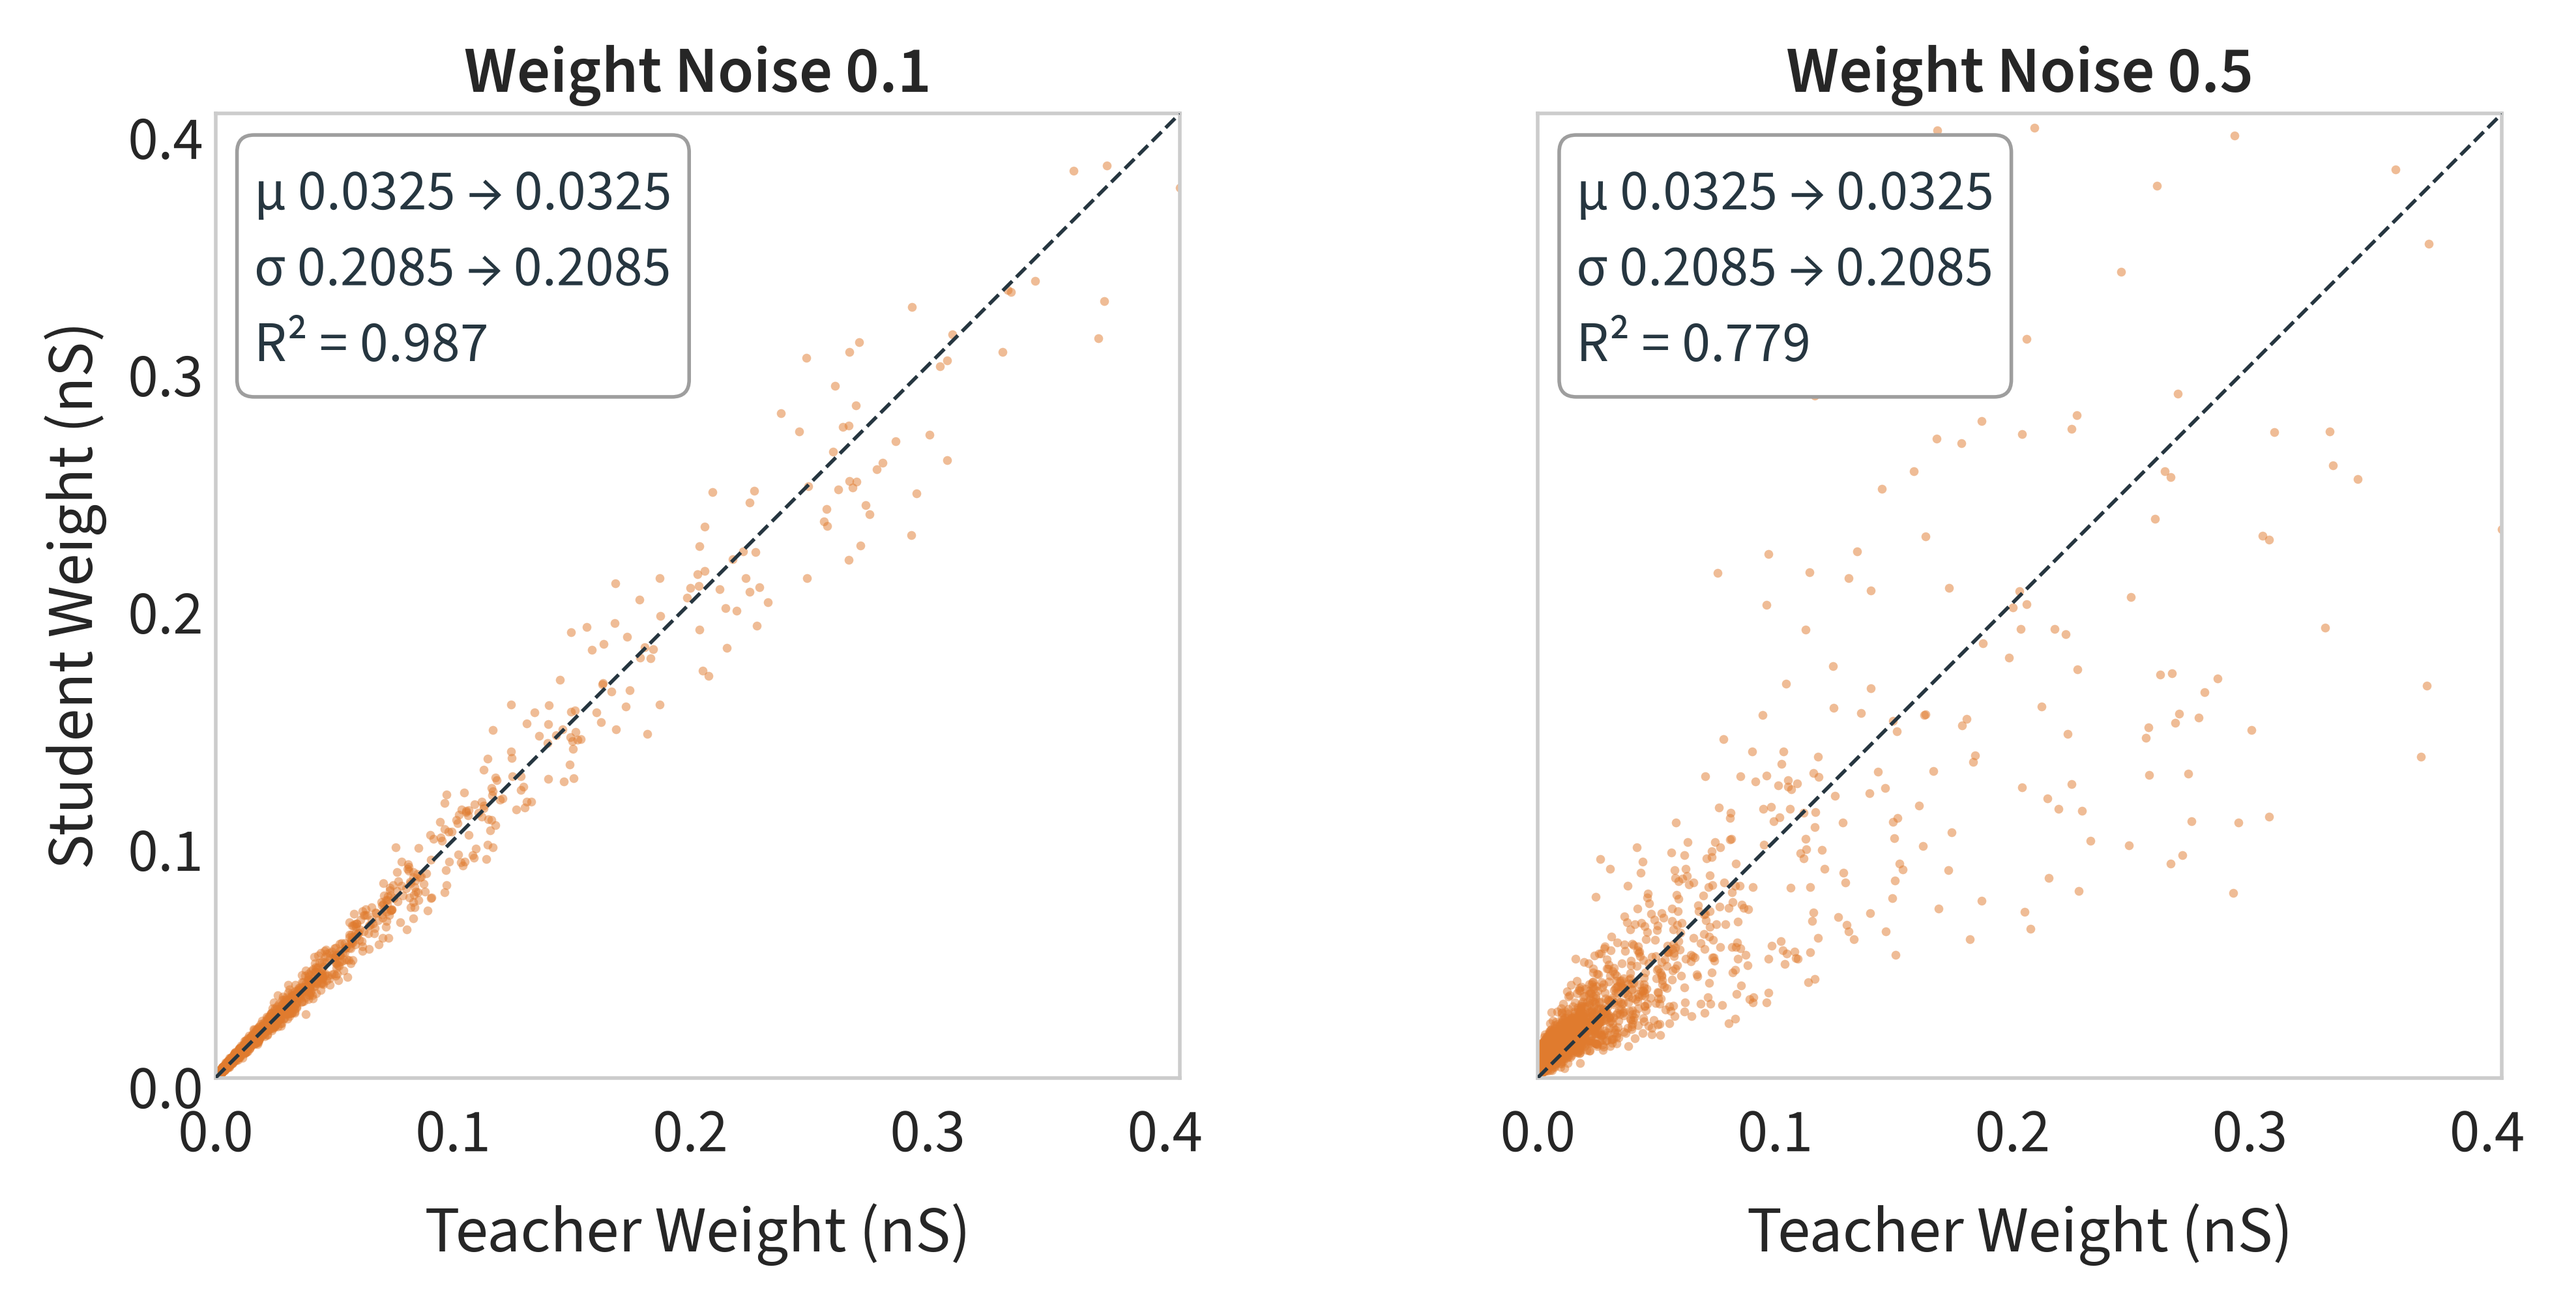
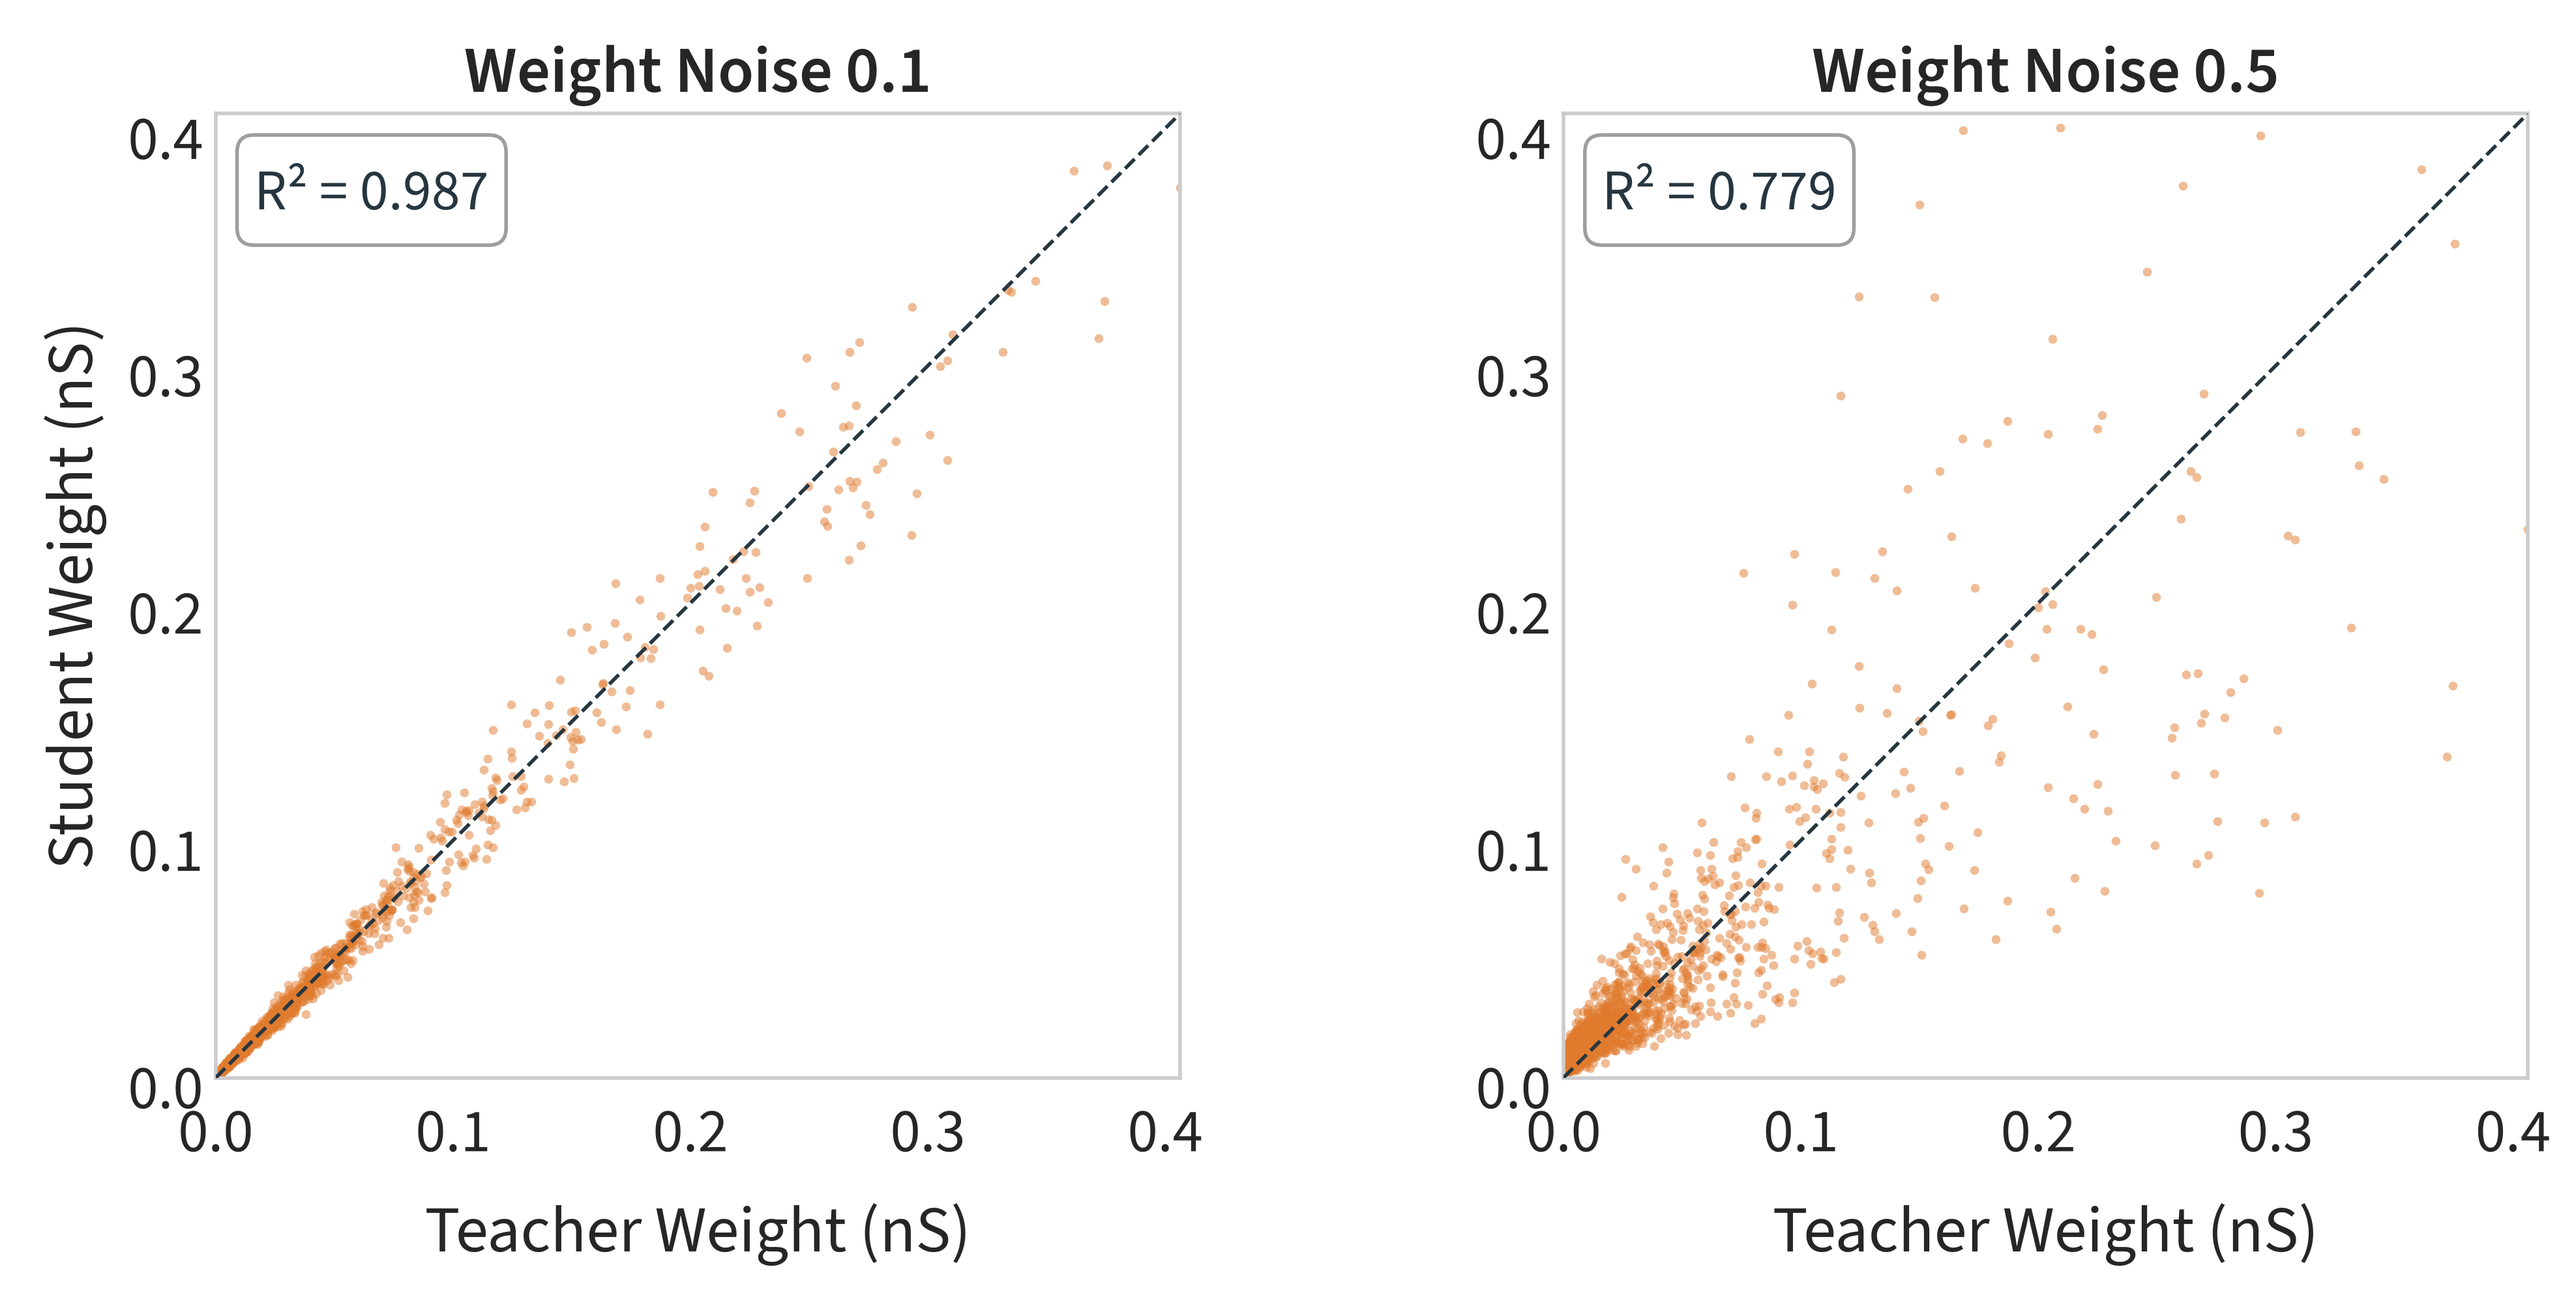
:art: Weight panel keeps R2 only, both sides keep their y ticks

diff --git a/fig05-weight-noise/figures.py b/fig05-weight-noise/figures.py
@@ -76,13 +76,12 @@ def weight_perturbation(table):
     """(a) Single synapses before and after the noise, one panel per level.
 
     A recreation of the old repository's ``weight_perturbation.svg``: the perturbed weight
-    against the original, the identity dashed, and the mean and SD before and after --
-    which the noise preserves exactly, by construction -- beside R², which is what
-    actually degrades. All three are over the whole non-zero population, not the plotted
-    sample: a few hundred synapses do not show the SD being preserved, since their own SD
-    moves with whichever outliers the draw contains. The points are a random sample, and
-    the axes stop at the PERTURBATION_PERCENTILE of the weights, since a handful of
-    synapses run two orders of magnitude further out.
+    against the original, the identity dashed, and R², which is what degrades. The mean and
+    SD are not quoted (2026-09-23): the noise preserves them exactly by construction, so
+    they said nothing the panel needed. They remain in fig05_weight_perturbation.csv, over
+    the whole non-zero population. R² is over that population too; the points are a random
+    sample of it, and the axes stop at the PERTURBATION_PERCENTILE of the weights, since a
+    handful of synapses run two orders of magnitude further out.
     """
     levels = sorted(table["weight_noise"].unique())
     limit = float(
@@ -103,6 +102,7 @@ def weight_perturbation(table):
             linewidths=0,
             rasterized=True,
         )
+        ax.tick_params(labelleft=True)  # both panels keep their y ticks, despite sharey
         ax.set_xlim(0, limit)
         ax.set_ylim(0, limit)
         ax.set_aspect("equal")
@@ -113,10 +113,6 @@ def weight_perturbation(table):
         ax.text(
             0.04,
             0.96,
-            f"μ {rows['population_mean'].iloc[0]:.4f} → "
-            f"{rows['population_mean_noisy'].iloc[0]:.4f}\n"
-            f"σ {rows['population_sd'].iloc[0]:.4f} → "
-            f"{rows['population_sd_noisy'].iloc[0]:.4f}\n"
             f"R² = {rows['correlation'].iloc[0] ** 2:.3f}",
             transform=ax.transAxes,
             ha="left",

diff --git a/fig05-weight-noise/README.md b/fig05-weight-noise/README.md
@@ -59,9 +59,10 @@ As built (2026-09-21), one SVG each:
 
 - **(a)** `fig05-a-weight-perturbation` — what the noise does to a synapse: the perturbed
   weight against the teacher's, side by side at noise 0.1 and 0.5, with the identity
-  dashed. A recreation of the old repository's `weight_perturbation.svg`. The box carries
-  the population mean and SD before and after — **unchanged, 0.0325 and 0.2085 at both
-  levels**, which is the point of the construction — beside R², which falls 0.987 → 0.779.
+  dashed. A recreation of the old repository's `weight_perturbation.svg`. The box carries R², which
+  falls **0.987 → 0.779**. The population mean and SD are not shown (2026-09-23): the noise
+  preserves them exactly by construction — 0.0325 and 0.2085 at both levels — so they are
+  recorded in `fig05_weight_perturbation.csv` rather than on the panel.
   Needs no trained run: `analysis.py` applies the same function training applies.
 - **(b)** `fig05-b-curve` — Fluctuation R² vs weight noise, observed and unobserved,
   individual seeds, no error bars.
